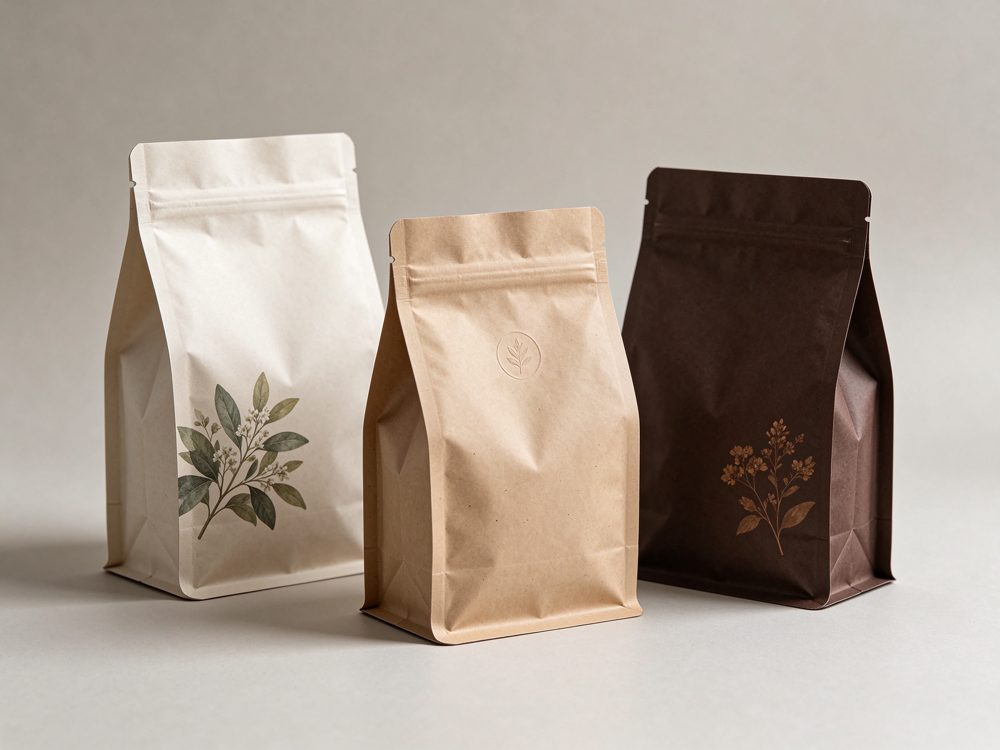
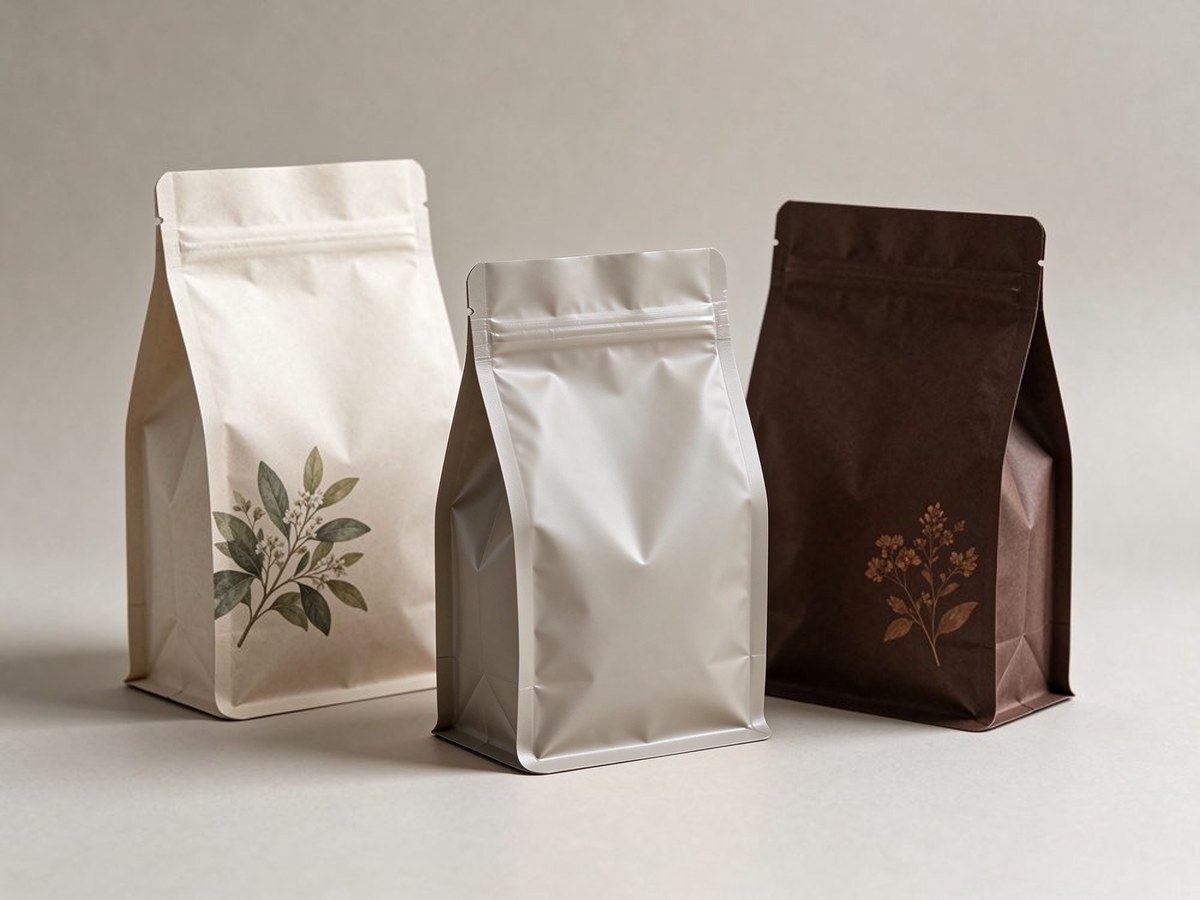
Remove homepage carousel; keep single hero photo with one non-paper film pouch

Changed region(s): [[0.341, 0.276, 0.651, 0.8587]]

diff --git a/css/style.css b/css/style.css
@@ -45,19 +45,6 @@ header{background:#fff;border-bottom:1px solid var(--line);position:sticky;top:0
 .hero-media{border-radius:18px;overflow:hidden;box-shadow:0 24px 60px rgba(0,0,0,.35);border:1px solid rgba(255,255,255,.18)}
 .hero-media img{width:100%;height:100%;object-fit:cover}
 
-/* Hero carousel */
-.carousel{position:relative;aspect-ratio:4/3}
-.carousel .slides{position:absolute;inset:0}
-.slide{position:absolute;inset:0;opacity:0;transition:opacity .6s ease;pointer-events:none}
-.slide.active{opacity:1;pointer-events:auto}
-.slide img{width:100%;height:100%;object-fit:cover}
-.car-arrow{position:absolute;top:50%;transform:translateY(-50%);width:38px;height:38px;border-radius:50%;border:1px solid rgba(255,255,255,.4);background:rgba(18,44,71,.45);color:#fff;font-size:22px;line-height:1;cursor:pointer;display:flex;align-items:center;justify-content:center;z-index:3;transition:background .2s}
-.car-arrow:hover{background:rgba(18,44,71,.7)}
-.car-arrow.prev{left:14px}.car-arrow.next{right:14px}
-.car-dots{position:absolute;left:0;right:0;bottom:14px;display:flex;justify-content:center;gap:8px;z-index:3}
-.car-dots button{width:9px;height:9px;border-radius:50%;border:0;background:rgba(255,255,255,.55);cursor:pointer;padding:0}
-.car-dots button.active{background:#fff;width:22px;border-radius:5px}
-
 /* Testimonials */
 .testimonial .quote{font-size:15px;color:var(--text);line-height:1.75;margin-bottom:16px}
 .testimonial .quote::before{content:"“";color:var(--orange);font-size:28px;font-weight:800;margin-right:4px}

diff --git a/js/main.js b/js/main.js
@@ -4,37 +4,3 @@ const links = document.querySelector('.nav-links');
 if (burger && links) {
   burger.addEventListener('click', () => links.classList.toggle('open'));
 }
-
-// Hero image carousel
-(function () {
-  const wrap = document.getElementById('heroCarousel');
-  if (!wrap) return;
-  const slides = wrap.querySelectorAll('.slide');
-  const dotsBox = wrap.querySelector('.car-dots');
-  let cur = 0, timer = null;
-
-  slides.forEach((_, i) => {
-    const b = document.createElement('button');
-    b.type = 'button';
-    b.setAttribute('aria-label', 'Show image ' + (i + 1));
-    if (i === 0) b.classList.add('active');
-    b.addEventListener('click', () => { show(i); restart(); });
-    dotsBox.appendChild(b);
-  });
-  const dots = [...dotsBox.children];
-
-  function show(i) {
-    cur = (i + slides.length) % slides.length;
-    slides.forEach((s, k) => s.classList.toggle('active', k === cur));
-    dots.forEach((d, k) => d.classList.toggle('active', k === cur));
-  }
-  function next() { show(cur + 1); }
-  function prev() { show(cur - 1); }
-  function restart() { clearInterval(timer); timer = setInterval(next, 4500); }
-
-  wrap.querySelector('.next').addEventListener('click', () => { next(); restart(); });
-  wrap.querySelector('.prev').addEventListener('click', () => { prev(); restart(); });
-  wrap.addEventListener('mouseenter', () => clearInterval(timer));
-  wrap.addEventListener('mouseleave', restart);
-  restart();
-})();

diff --git a/index.html b/index.html
@@ -77,16 +77,8 @@
           <span>Food-Contact Materials</span>
         </div>
       </div>
-      <div class="hero-media carousel" id="heroCarousel">
-        <div class="slides">
-          <div class="slide active"><img src="images/hero-ai.jpg" alt="Stand-up kraft paper packaging pouches shown in a clean studio"></div>
-          <div class="slide"><img src="images/yinyang.jpg" alt="Stand-up pouch with window filled with mixed nuts and seeds"></div>
-          <div class="slide"><img src="images/foil.jpg" alt="Plain aluminum foil flat pouch for dry goods and powder"></div>
-          <div class="slide"><img src="images/standup.jpg" alt="Printed stand-up doypack pouch for tea and dried food"></div>
-        </div>
-        <button class="car-arrow prev" type="button" aria-label="Previous image">‹</button>
-        <button class="car-arrow next" type="button" aria-label="Next image">›</button>
-        <div class="car-dots" aria-label="Image navigation"></div>
+      <div class="hero-media">
+        <img src="images/hero-ai.jpg" alt="Stand-up packaging pouches in paper and matte film shown in a clean studio">
       </div>
     </div>
   </section>
